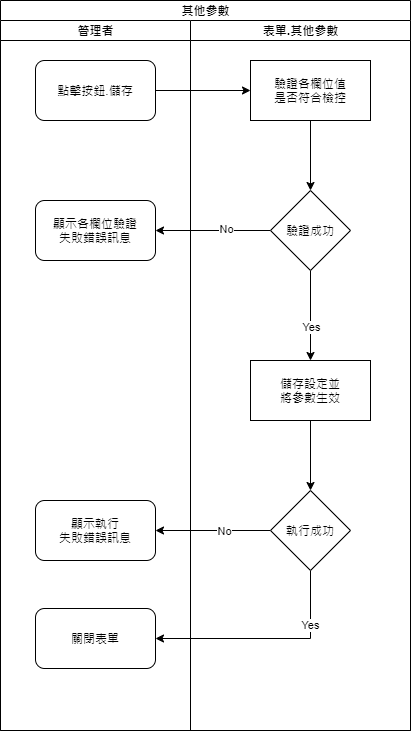
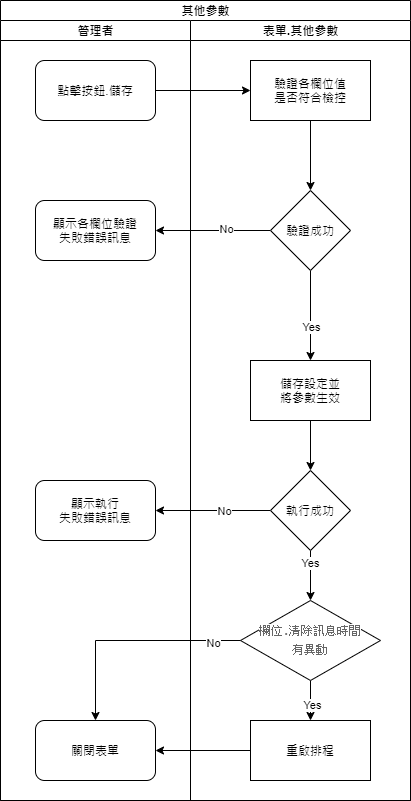
8.10.0 #8192

diff --git a/8.10.0/UPDATE/ITEM_2/RTE/buttonannotation/README.md b/8.10.0/UPDATE/ITEM_2/RTE/buttonannotation/README.md
@@ -108,7 +108,7 @@
 ### <div id="pushmessage_content_link-body_form_execute">執行系統 <path>(按鍵加註\推播通知\推播內容\連結內容\超連結表單)</path></div>
 表示執行此超連結時是否需重新驗證帳號密碼
 * `要求登入` : 執行超連結時需進行登入驗證。
-    * `帳號驗證` : 驗證登入帳號是否與接收通知對應帳號相同。若使用者已登入，帳號不符合接收通知對應帳號，彈出錯誤訊息【您已經登入其它帳號，請先登出。】；若使用者未登入，且登入帳號不符合接收通知對應帳號，彈出錯誤訊息【您無權限執行此超連結。】
+    * `帳號驗證` : 驗證登入帳號是否與接收通知對應帳號相同。若使用者已登入，帳號不符合接收通知對應帳號，彈出錯誤訊息【您已經登入其它帳號，且此帳號無權限執行此超連結，請先登出。】；若使用者未登入，會要求登入。
 * `自動登入` : 執行超連結時以指定帳號自動登入，若使用者已登入，帳號不符合接收通知對應帳號，彈出錯誤訊息【您已經登入其它帳號，請先登出。】；若使用者未登入，使用指定帳號自動登入。
 
 ### <div id="pushmessage_content_link-body_funckey">超連結按鍵 <path>(按鍵加註\推播通知\推播內容\連結內容)</path></div>
@@ -133,7 +133,7 @@
 ### <div id="pushmessage_content_link-body_funckey_execute">執行系統 <path>(按鍵加註\推播通知\推播內容\連結內容\超連結按鍵)</path></div>
 表示執行此超連結時是否需重新驗證帳號密碼
 * `要求登入` : 執行超連結時需進行登入驗證。
-    * `帳號驗證` : 驗證登入帳號是否與接收通知對應帳號相同。若使用者已登入，帳號不符合接收通知對應帳號，彈出錯誤訊息【您已經登入其它帳號，請先登出。】；若使用者未登入，且登入帳號不符合接收通知對應帳號，彈出錯誤訊息【您無權限執行此超連結。】
+    * `帳號驗證` : 驗證登入帳號是否與接收通知對應帳號相同。若使用者已登入，帳號不符合接收通知對應帳號，彈出錯誤訊息【您已經登入其它帳號，且此帳號無權限執行此超連結，請先登出。】；若使用者未登入，會要求登入。
 * `自動登入` : 執行超連結時以指定帳號自動登入，若使用者已登入，帳號不符合接收通知對應帳號，彈出錯誤訊息【您已經登入其它帳號，請先登出。】；若使用者未登入，使用指定帳號自動登入。
 
 ### <div id="pushmessage_content_link-body_funckey_pst">執行後續 <path>(按鍵加註\推播通知\推播內容\連結內容\超連結按鍵)</path></div>
@@ -398,6 +398,7 @@ URL的內容值
 * `表單參數`
 * `全域變數`
 * `推播發送失敗原因`
+* `推播內容` : 欄位型態須為備註型態。內容為主旨\r\n內文。
 
 ### <div id="pushmessage_info_save_info_value">給值內容 <path>(按鍵加註\推播通知\推播資訊\另存推播紀錄\額外寫入欄位表格)</path></div>
 額外寫入`其他目的欄位`的給值內容

diff --git a/8.10.0/UPDATE/ITEM_2/RTE/scheduler_clearPushMessage.md b/8.10.0/UPDATE/ITEM_2/RTE/scheduler_clearPushMessage.md
@@ -1,0 +1,26 @@
+### <div id="user">規劃人員</div>
+* Rita
+
+### <div id="updatedate">規劃日期</div>
+* 2020/12/22
+
+### <div id="trac">TRAC</div>
+* #8192
+
+### <div id="sitemanage_2">系統排程.清除推播通知訊息 <path>(RTE啟動停止)</path></div>
+* 擴充
+* 規格說明
+    * 依據【表單.其他參數】的【欄位.清除訊息時間 / 欄位.訊息保留天數】,定時執行自發送日期起算，每日系統排程會將超過保留天數的推播通知以及相關超連結資料刪除。
+
+* 作業流程
+    * 引擎啟動
+
+    ![scheduler_clearPushMessage_start]
+    * 排程執行
+
+    ![scheduler_clearPushMessage_run]
+
+
+<!--超連結引用ps.畫面上看不到-->
+[scheduler_clearPushMessage_start]:img/scheduler_clearPushMessage_start.png
+[scheduler_clearPushMessage_run]:img/scheduler_clearPushMessage_run.png

diff --git a/8.10.0/UPDATE/ITEM_2/RTE/otherparameter.md b/8.10.0/UPDATE/ITEM_2/RTE/otherparameter.md
@@ -41,6 +41,7 @@
     * 按鈕.儲存 : 增加以下欄位驗證
         * 若欄位.啟用推播通知有勾選，則欄位.訊息保留天數 / 欄位.清除訊息時間 不可空白。
         * 若欄位.金鑰類型為自訂金鑰，則欄位.推播通知金鑰不可空白。
+        * 若欄位.清除訊息時間 有異動時，須重啟該排程。
 
 * 作業流程
     * 開啟畫面

diff --git a/8.10.0/UPDATE/ITEM_2/RTE/_sidebar.md b/8.10.0/UPDATE/ITEM_2/RTE/_sidebar.md
@@ -10,6 +10,8 @@
         * [表單.推播通知管理](pushmessagemanage.md)
         * [表單.其他參數](otherparameter.md)
         * [升級轉資料](upgrade.md)
+    * RTE啟動停止
+        * [清除推播通知訊息](scheduler_clearPushMessage.md)
     * RTE首頁
         * [表單.個人資料](pushmessagelog.md)
         * [表單.推播通知明細](pushmessagedetail.md)
